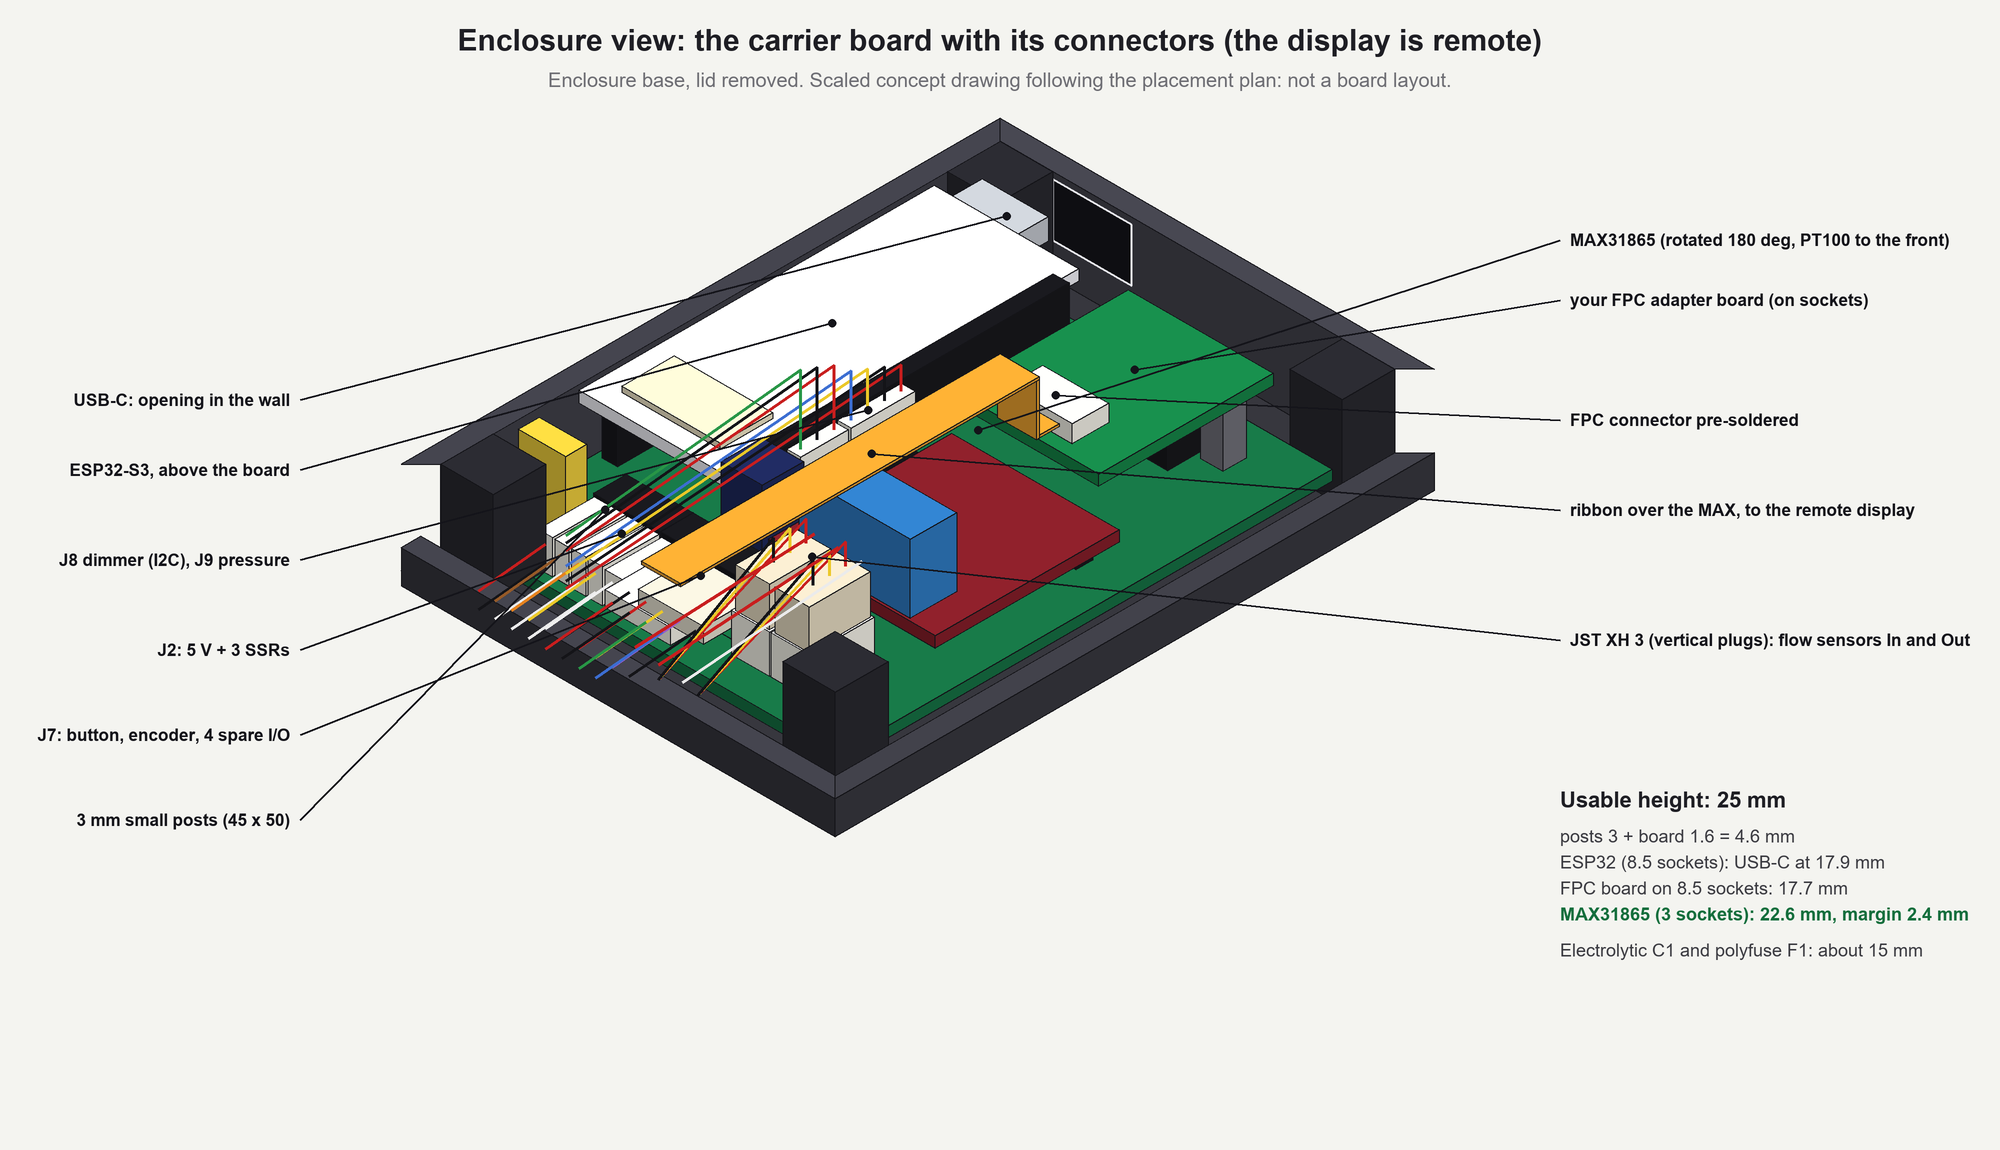
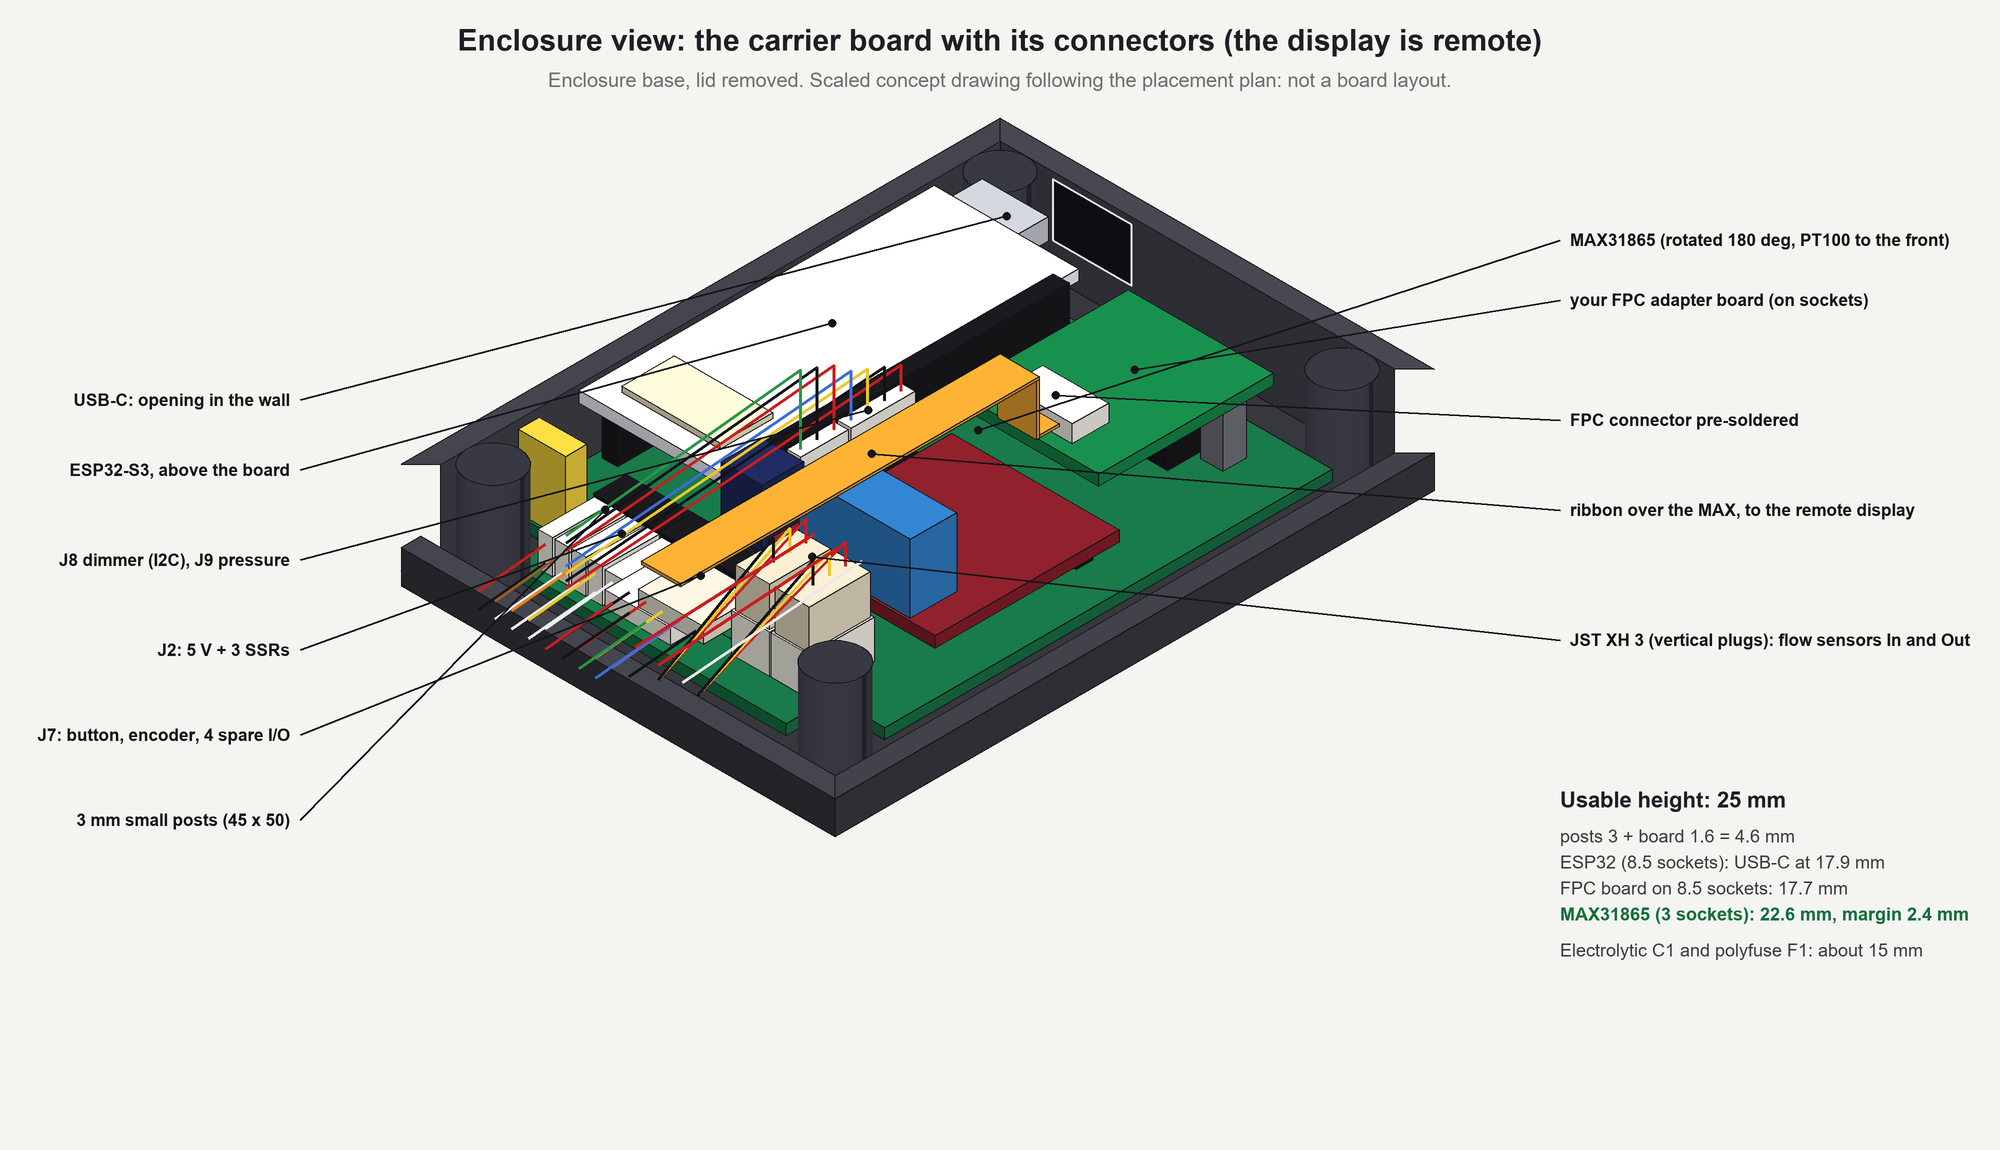
Draw the big posts as 8 mm round cylinders (plan and 3D view)

diff --git a/tools/box_iso3.py b/tools/box_iso3.py
@@ -32,6 +32,20 @@ def cuboid(x, y, z, w, dp, h, color, outline=(20, 20, 24)):
     poly([(x + w, y, z), (x + w, y + dp, z), (x + w, y + dp, z + h), (x + w, y, z + h)], shade(color, 0.85), outline)
     poly([(x, y + dp, z), (x + w, y + dp, z), (x + w, y + dp, z + h), (x, y + dp, z + h)], shade(color, 0.68), outline)
 
+def cyl(cx, cy, r, z, h, color, outline=(20, 20, 24), n=28):
+    """Vertical cylinder: side quads painted back to front, then the top disc."""
+    angs = [2 * math.pi * k / n for k in range(n)]
+    quads = []
+    for k in range(n):
+        a0, a1 = angs[k], angs[(k + 1) % n]
+        mid = (a0 + a1) / 2
+        quads.append((cx + r * math.cos(mid) + cy + r * math.sin(mid), k, a0, a1))
+    for _, k, a0, a1 in sorted(quads):
+        p = [(cx + r * math.cos(a0), cy + r * math.sin(a0), z), (cx + r * math.cos(a1), cy + r * math.sin(a1), z),
+             (cx + r * math.cos(a1), cy + r * math.sin(a1), z + h), (cx + r * math.cos(a0), cy + r * math.sin(a0), z + h)]
+        poly(p, shade(color, 0.62 + 0.5 * (math.cos((a0 + a1) / 2) + math.sin((a0 + a1) / 2) + 1.4) / 2.4))
+    poly([(cx + r * math.cos(a), cy + r * math.sin(a), z + h) for a in angs], shade(color, 1.25), outline)
+
 def text(x, y, t, size=18, color=(30, 30, 36), bold=False, anchor='lm'):
     d.text((x * SS, y * SS), t, font=F(size, bold), fill=color, anchor=anchor)
 
@@ -66,7 +80,7 @@ poly([(0, 0, BASE_H), (BX, 0, BASE_H), (BX - WALL, WALL, BASE_H), (WALL, WALL, B
 poly([(0, 0, BASE_H), (0, BY, BASE_H), (WALL, BY - WALL, BASE_H), (WALL, WALL, BASE_H)], shade(PLASTIC, 1.2), (20, 20, 24))
 # the big posts (plus-shaped usable area: each corner blocked over 13 x 6 mm); the back ones here, the front ones after the board
 for (px, py) in [(WALL, WALL), (BX - WALL - 8, WALL)]:
-    cuboid(px, py, FLOOR, 8, 8, BASE_H - FLOOR, (40, 40, 46))
+    cyl(px + 4, py + 4, 4, FLOOR, BASE_H - FLOOR, (46, 46, 54))
 
 # ---------------------------------------------------------------- the carrier and what it holds
 CX0, CY0 = WALL + 1.0, WALL + 8.5     # origin of the carrier (58 x 68)
@@ -139,7 +153,7 @@ items.sort(key=lambda t: t[0])
 for _, fn in items:
     fn()
 for (px, py) in [(WALL, BY - WALL - 8), (BX - WALL - 8, BY - WALL - 8)]:
-    cuboid(px, py, FLOOR, 8, 8, BASE_H - FLOOR, (40, 40, 46))
+    cyl(px + 4, py + 4, 4, FLOOR, BASE_H - FLOOR, (46, 46, 54))
 
 # ---------------------------------------------------------------- the front walls of the base (cut low, to see inside)
 FW = 5.0

diff --git a/tools/carrier_plan.py b/tools/carrier_plan.py
@@ -42,10 +42,10 @@ rect(d, bx0, by0, bx1, by1, fill=(74, 74, 82, 255))
 # the opening for the USB-C cable in the back wall (y = top)
 rect(d, X(5.5), by0 - 3 * K, X(18.5), by0, fill=(20, 20, 24, 255), outline=(230, 230, 235, 255), width=2)
 text(d, X(12), by0 - 1.5 * K, "USB-C opening", 12, (230, 230, 235), True)
-# the four big posts (lid screws): 8 x 8 mm in the corners of the interior. They leave a plus-shaped usable area:
+# the four big posts (lid screws): round, 8 mm diameter (8 x 8 mm footprint) in the corners of the interior. They leave a plus-shaped usable area:
 # 60 wide over 69 long, and 44 wide over the full 85 length.
 for (xa, xb, ya, yb) in [(-1, 7, -8.5, -0.5), (51, 59, -8.5, -0.5), (-1, 7, 68.5, 76.5), (51, 59, 68.5, 76.5)]:
-    rrect(d, X(xa), Y(ya), X(xb), Y(yb), 8, fill=(30, 30, 34, 255), outline=(120, 120, 128, 255), width=3)
+    circ(d, (X(xa) + X(xb)) / 2, (Y(ya) + Y(yb)) / 2, 4.0 * K, fill=(30, 30, 34, 255), outline=(120, 120, 128, 255), width=3)
     circ(d, (X(xa) + X(xb)) / 2, (Y(ya) + Y(yb)) / 2, 1.6 * K, fill=(70, 70, 78, 255))
 cross = [(-1, -0.5), (7, -0.5), (7, -8.5), (51, -8.5), (51, -0.5), (59, -0.5), (59, 68.5), (51, 68.5), (51, 76.5), (7, 76.5), (7, 68.5), (-1, 68.5)]
 line(d, [(X(a), Y(b)) for a, b in cross + [cross[0]]], (150, 200, 150), 2)

diff --git a/docs/carrier_spec.md b/docs/carrier_spec.md
@@ -3,7 +3,7 @@
 All **through-hole** parts (no SMD soldering). Related files: `images/carrier_plan.png` (to-scale placement), `images/box_iso3.png` (3D view), `images/carrier_schema.png` (connection schematic).
 
 ## Dimensions and mounting
-- Enclosure interior (measured): **60 mm wide x 85 mm long**. The four big posts are **8 x 8 mm** in the corners. The small posts (3 mm high) are at **45 x 50 mm**, centred.
+- Enclosure interior (measured): **60 mm wide x 85 mm long**. The four big posts are round, **8 mm in diameter** (8 x 8 mm footprint), in the corners. The small posts (3 mm high) are at **45 x 50 mm**, centred.
 - The posts leave a plus-shaped usable area: **60 x 69 mm** between the posts along the long sides (y from 8 to 77) and **44 mm wide over the full 85 mm length** between the end posts.
 - Board: **58 x 68 mm main body** (0.5 to 1 mm of margin all round) **plus a 42 x 7 mm tab on the cable (front) side**, so the board is 75 mm long at the tab; two layers, ground plane. The tab lets the Dupont housings of J2 / J7 and the JST XH plugs sit on the board up to the front wall; the back extension (same size) is not used.
 - 4 mounting holes on the **3 mm** small posts, **45 x 50 mm** spacing, centred in the interior (board coordinates (6.5, 9), (51.5, 9), (6.5, 59), (51.5, 59)).
